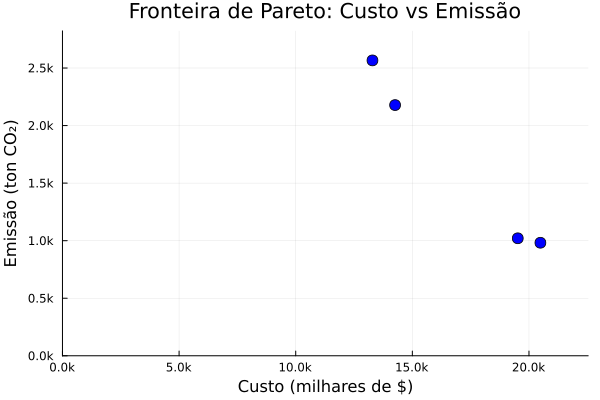
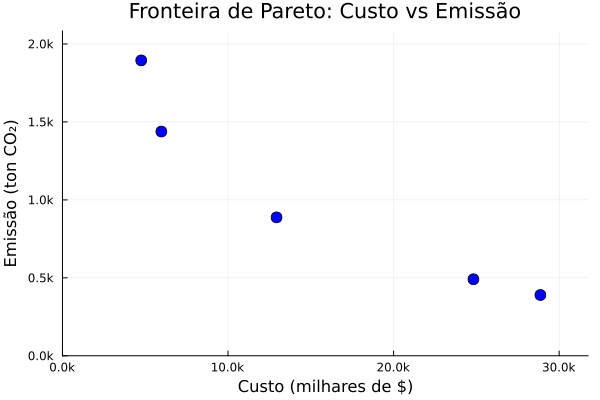
[MCDA] ajuste nos scripts para rodada de pareto com IEEE 14

diff --git a/SRC/decisao_multicriterio/MCDA_DecisaoDados.py b/SRC/decisao_multicriterio/MCDA_DecisaoDados.py
@@ -9,7 +9,7 @@ except:
     pass
 
 
-class BaseMCDA(ABC):
+class BaseMCDA_DADOS(ABC):
     """
     Classe base para todos os métodos MCDA:
 
@@ -62,56 +62,8 @@ class BaseMCDA(ABC):
     def rank_alternativas(self):
         pass
 
-class WASPAS(BaseMCDA):
-    def __init__(self, arquivo_alternativas=None):
-        super().__init__(arquivo_alternativas)
-    
-    def normalizar(self, df):
-        df_norm = df.copy()
-        for col in self.colunas_criterios:
-            if self.tipo_criterio_list[col] == 'MAX':
-                # Normalização para critérios de benefício (quanto maior melhor)
-                df_norm[col] = (df[col] ) / (df[col].max())
-            else:
-                # Normalização para critérios de custo (quanto menor melhor)
-                df_norm[col] = (df[col].min()) / (df[col])
-        return df_norm
 
-    def rank_alternativas(self, matriz_criterios, lambda_waspas=0.5):
-        # Normalização da Matriz de Desempenho
-        df = self.alternativas.copy()
-        matriz_desempenho = df[self.colunas_criterios]
-        matriz_desempenho = self.normalizar(matriz_desempenho)
-        
-        # pesos
-        pesos = matriz_criterios.sum(axis=0) / matriz_criterios.sum().sum()
-
-        # WSM
-        matriz_desempenho["WSM"] = sum(matriz_desempenho[col] * pesos[col] for col in self.colunas_criterios)
-        # WPM
-        matriz_desempenho["WPM"] = 1
-        for col in self.colunas_criterios:
-            matriz_desempenho["WPM"] *= matriz_desempenho[col] ** pesos[col]
-
-        # Score final
-        df["Score"] = (
-            lambda_waspas * matriz_desempenho["WSM"] +
-            (1 - lambda_waspas) * matriz_desempenho["WPM"]
-        )
-        df_resultados = df.sort_values(by="Score", ascending=False)
-
-        print('-'*80)
-        print("Pesos dos critérios WASPAS:")
-        print(pd.Series(np.round(pesos, 3), index=self.colunas_criterios))
-
-        df_resultados = df_resultados.drop_duplicates(subset=self.colunas_criterios + ["Score"]).reset_index(drop=True)
-        df_resultados["Score"] = df_resultados["Score"] / df_resultados["Score"].sum()
-        df_resultados["Score"] = np.round(df_resultados["Score"],3)
-        print('\nRanking das Alternativas: - WASPAS ')
-        print(df_resultados)
-        return df_resultados
-
-class LOPCOW(BaseMCDA):
+class LOPCOW(BaseMCDA_DADOS):
 
     def __init__(self, arquivo_alternativas=None):
         super().__init__(arquivo_alternativas)
@@ -154,7 +106,7 @@ class LOPCOW(BaseMCDA):
         print(df_resultados)
         return df_resultados
     
-class MPSI(BaseMCDA):
+class MPSI(BaseMCDA_DADOS):
     def __init__(self, arquivo_alternativas=None):
         super().__init__(arquivo_alternativas)
     
@@ -196,76 +148,56 @@ class MPSI(BaseMCDA):
         print(df_resultados)
         return df_resultados
     
-class WISP(BaseMCDA):
-
+class AHP_Gaussiano(BaseMCDA_DADOS):
     def __init__(self, arquivo_alternativas=None):
         super().__init__(arquivo_alternativas)
     
     def normalizar(self, df):
         df_norm = df.copy()
-
         for col in self.colunas_criterios:
-            df_norm[col] = (df[col] ) / (df[col].max())
+            if self.tipo_criterio_list[col] == 'MAX':
+                # Normalização para critérios de benefício (quanto maior melhor)
+                df_norm[col] = (df[col]) / (df[col].max())
+            else:
+                # Normalização para critérios de custo (quanto menor melhor)
+                df_norm[col] = (df[col].min()) / (df[col])
         return df_norm
-
-    def rank_alternativas(self, matriz_criterios, lambda_waspas=0.5):
+    
+    def rank_alternativas(self):
         # Normalização da Matriz de Desempenho
         df = self.alternativas.copy()
         matriz_desempenho = df[self.colunas_criterios]
         matriz_desempenho = self.normalizar(matriz_desempenho)
-        
-        # pesos
-        pesos = matriz_criterios.sum(axis=0) / matriz_criterios.sum().sum()
-        pesos = np.round(pesos,3)
-        
-        MedidaUtilidade_wsd_min = 0
-        MedidaUtilidade_wsd_max = 0
 
-        MedidaUtilidade_wsp_min = 1
-        MedidaUtilidade_wsp_max = 1
+        # 2) Média e desvio padrão dos critérios
+        media = matriz_desempenho.mean()
+        desvio = matriz_desempenho.std(ddof=0)
 
-        for col in self.colunas_criterios:
-            if self.tipo_criterio_list[col] == 'MAX':
-                MedidaUtilidade_wsd_max += matriz_desempenho[col]*pesos[col]
-                MedidaUtilidade_wsp_max *= matriz_desempenho[col]*pesos[col]
+        # 3) Fator gaussiano para cada critério
+        # Usamos a média e desvio em toda a coluna, mas aplica individual?
+        # Simplificação: w_i = exp(-σ_i^2)
+        w = np.exp(-desvio**2)
 
-            if self.tipo_criterio_list[col] == 'MIN':
-                MedidaUtilidade_wsd_min += matriz_desempenho[col]*pesos[col]
-                MedidaUtilidade_wsp_min *= matriz_desempenho[col]*pesos[col]
-               
-        MedidaUtilidade_wsd = MedidaUtilidade_wsd_max - MedidaUtilidade_wsd_min
-        MedidaUtilidade_wsp = MedidaUtilidade_wsp_max - MedidaUtilidade_wsp_min
-        MedidaUtilidade_wsr = MedidaUtilidade_wsd_max/MedidaUtilidade_wsd_min
-        MedidaUtilidade_wpr = MedidaUtilidade_wsp_max/MedidaUtilidade_wsp_min
+        # Normaliza pesos dos critérios
+        pesos = w / w.sum()
 
-        recalculoUtilidade_wsd = MedidaUtilidade_wsd/(1+MedidaUtilidade_wsd.max())
-        recalculoUtilidade_wpd = MedidaUtilidade_wsp/(1+MedidaUtilidade_wsp.max())
-        recalculoUtilidade_wsr = MedidaUtilidade_wsr/(1+MedidaUtilidade_wsr.max())
-        recalculoUtilidade_wpr = MedidaUtilidade_wpr/(1+MedidaUtilidade_wpr.max())
+        # 4) Calcula Score
+        df["Score"] = matriz_desempenho.dot(pesos)
 
-        MedidaUtilidade_global = (1/4)*(recalculoUtilidade_wsd+
-                                        recalculoUtilidade_wpd+
-                                        recalculoUtilidade_wsr+
-                                        recalculoUtilidade_wpr)    
-         # Ordenação dos Critérios
-        df["Score"] = MedidaUtilidade_global
         df_resultados = df.sort_values(by="Score", ascending=False)
 
         print('-'*80)
-        print("Pesos dos critérios WISP:")
+        print("Pesos dos critérios (AHP-Gaussiano):")
         print(pd.Series(np.round(pesos, 3), index=self.colunas_criterios))
 
         df_resultados = df_resultados.drop_duplicates(subset=self.colunas_criterios + ["Score"]).reset_index(drop=True)
-        # Subtrai o valor mínimo para eliminar negativos e normaliza pela soma
-        df_resultados["Score"] = df_resultados["Score"] - df_resultados["Score"].min()
         df_resultados["Score"] = df_resultados["Score"] / df_resultados["Score"].sum()
-        df_resultados["Score"] = np.round(df_resultados["Score"], 3)
-        print('\nRanking das Alternativas: - WISP')
+        df_resultados["Score"] = np.round(df_resultados["Score"],3)
+        print("\nRanking das Alternativas: - (AHP-Gaussiano)")
         print(df_resultados)
         return df_resultados
 
-    
-if __name__ == '__main__':
+if __name__ == "__main__":
     DATA = """
     [
         {
@@ -294,19 +226,17 @@ if __name__ == '__main__':
         }
     ]
     """
-    
+
     # Matriz de critérios para WASPAS (exemplo simplificado)
     matriz_criterios = pd.DataFrame({
-        'Custo':         [1, 3, 2, 2],
-        'Camera':        [1/3, 1, 1/2, 1],
-        'Armazenamento': [1/2, 2, 1, 1],
-        'Bateria':       [1/2, 1, 1, 1]
+    'Custo':         [1, 3, 2, 2],
+    'Camera':        [1/3, 1, 1/2, 1],
+    'Armazenamento': [1/2, 2, 1, 1],
+    'Bateria':       [1/2, 1, 1, 1]
     })
-    
 
-    
-    # Instanciar e executar métodos MCDA
-    waspas = WASPAS(arquivo_alternativas= DATA).rank_alternativas(matriz_criterios=matriz_criterios)
+
     lopcow = LOPCOW(arquivo_alternativas=DATA).rank_alternativas()
     mpsi = MPSI(arquivo_alternativas=DATA).rank_alternativas()
-    wisp = WISP(arquivo_alternativas=DATA).rank_alternativas(matriz_criterios=matriz_criterios)
+    ahp_gauss = AHP_Gaussiano(arquivo_alternativas=DATA).rank_alternativas()
+

diff --git a/SRC/decisao_multicriterio/main.py b/SRC/decisao_multicriterio/main.py
@@ -2,11 +2,12 @@ import sys
 import os
 import subprocess
 
+
 sys.path.append(os.path.abspath(os.path.dirname(__file__)))
 sys.path.append(os.path.abspath(os.path.join(os.path.dirname(__file__), '..')))
 
-from decisao_multicriterio.familia_AHP import *
-from decisao_multicriterio.familia_LesteEuropeu import *
+from decisao_multicriterio.MCDA_DecisaoSubjetiva import *
+from decisao_multicriterio.MCDA_DecisaoDados import *
 
 
 
@@ -37,43 +38,47 @@ def exporta_comparativo_excel():
     # ahp = AHP()
     # ahp_gauss = AHP_Gaussiano()
 
-    DATA =DATA =  """[{"id_alternativa": 1,"descricao": "w_c=1.0, w_e=0.0","Custo Operacao": [13290.0,"MIN"],"Emissao ton CO2": [2566.0,"MIN"]},{"id_alternativa": 2,"descricao": "w_c=0.9, w_e=0.1","Custo Operacao": [14260.0,"MIN"],"Emissao ton CO2": [2178.0,"MIN"]},{"id_alternativa": 3,"descricao": "w_c=0.8, w_e=0.2","Custo Operacao": [19520.0,"MIN"],"Emissao ton CO2": [1020.8,"MIN"]},{"id_alternativa": 4,"descricao": "w_c=0.5, w_e=0.5","Custo Operacao": [20490.0,"MIN"],"Emissao ton CO2": [982.0,"MIN"]}]"""
-        
+    DATA = """
+[{"id_alternativa":1,"descricao":"w_c=1.0, w_e=0.0","Custo Operacao":[5643.6,"MIN"],"Emissao ton CO2":[1785.05,"MIN"]},{"id_alternativa":2,"descricao":"w_c=0.9, w_e=0.1","Custo Operacao":[6354.8,"MIN"],"Emissao ton CO2":[1518.35,"MIN"]},{"id_alternativa":3,"descricao":"w_c=0.6, w_e=0.4","Custo Operacao":[14783.2,"MIN"],"Emissao ton CO2":[921.68,"MIN"]},{"id_alternativa":4,"descricao":"w_c=0.4, w_e=0.6","Custo Operacao":[18373.2,"MIN"],"Emissao ton CO2":[803.18,"MIN"]},{"id_alternativa":5,"descricao":"w_c=0.3, w_e=0.7","Custo Operacao":[19949.2,"MIN"],"Emissao ton CO2":[763.78,"MIN"]}]
+"""
     # Matriz de critérios para WASPAS (exemplo simplificado)
     matriz_criterios = pd.DataFrame({
         'Custo Operacao': [1, 2],
         'Emissao ton CO2': [1/2, 1]
     })
 
-    # Instanciar e executar métodos MCDA
-    waspas = WASPAS(arquivo_alternativas= DATA).rank_alternativas(matriz_criterios=matriz_criterios)
+
+    # Métodos ANALÍTICOS
+    ahp_gauss = AHP_Gaussiano(arquivo_alternativas=DATA).rank_alternativas()
     lopcow = LOPCOW(arquivo_alternativas=DATA).rank_alternativas()
     mpsi = MPSI(arquivo_alternativas=DATA).rank_alternativas()
+
+    # Métodos SUBJETIVOS
+    ahp = AHP(arquivo_alternativas= DATA).rank_alternativas(matriz_criterios=matriz_criterios)
+    waspas = WASPAS(arquivo_alternativas= DATA).rank_alternativas(matriz_criterios=matriz_criterios)
     wisp = WISP(arquivo_alternativas=DATA).rank_alternativas(matriz_criterios=matriz_criterios)
 
-    # # Gera os rankings
-    # df_ahp = ahp.rank_alternativas().rename(columns={"Score": "AHP"})
-    # df_ahp_gauss = ahp_gauss.rank_alternativas().rename(columns={"Score": "AHP_Gaussiano"})
+    # Gera os rankings
+    df_ahp = ahp.rename(columns={"Score": "AHP"})
     df_waspas = waspas.rename(columns={"Score": "WASPAS"})
+    df_wisp = wisp.rename(columns={"Score": "WISP"})
+    df_ahp_gauss = ahp_gauss.rename(columns={"Score": "AHP_Gaussiano"})
     df_lopcow = lopcow.rename(columns={"Score": "LOPCOW"})
     df_mpsi = mpsi.rename(columns={"Score": "MPSI"})
-    df_wisp = wisp.rename(columns={"Score": "WISP"})
-
     # Seleciona colunas-chave
     base_cols = ["id_alternativa", "descricao"]
 
-    # Faz merge sucessivo
-    # df_merged = df_ahp[base_cols + ["AHP"]] \
-    #     .merge(df_ahp_gauss[base_cols + ["AHP_Gaussiano"]], on=base_cols, how="outer") \
-    df_merged = df_waspas[base_cols + ["WASPAS"]] \
+
+    df_merged = df_ahp_gauss[base_cols + ["AHP_Gaussiano"]] \
         .merge(df_lopcow[base_cols + ["LOPCOW"]], on=base_cols, how="outer") \
         .merge(df_mpsi[base_cols + ["MPSI"]], on=base_cols, how="outer") \
-        .merge(df_wisp[base_cols + ["WISP"]], on=base_cols, how="outer")
+        .merge(df_ahp[base_cols + ["AHP"]], on=base_cols, how="outer") \
+        .merge(df_waspas[base_cols + ["WASPAS"]], on=base_cols, how="outer") \
+        # .merge(df_wisp[base_cols + ["WISP"]], on=base_cols, how="outer")
 
-    # Ordena por uma média dos scores (opcional)
+    # Ordena por uma média dos scores
     df_merged = df_merged.fillna(0)
-    #df_merged["Score_Medio"] = df_merged[["AHP", "AHP_Gaussiano", "WASPAS", "LOPCOW", "MPSI","WISP"]].mean(axis=1)
-    df_merged["Score_Medio"] = df_merged[["WASPAS", "LOPCOW", "MPSI","WISP"]].mean(axis=1)
+    df_merged["Score_Medio"] = df_merged[["AHP_Gaussiano","LOPCOW", "MPSI","AHP","WASPAS"]].mean(axis=1)
     df_merged = df_merged.sort_values(by="Score_Medio", ascending=False).reset_index(drop=True)
 
     print('-'*80)
